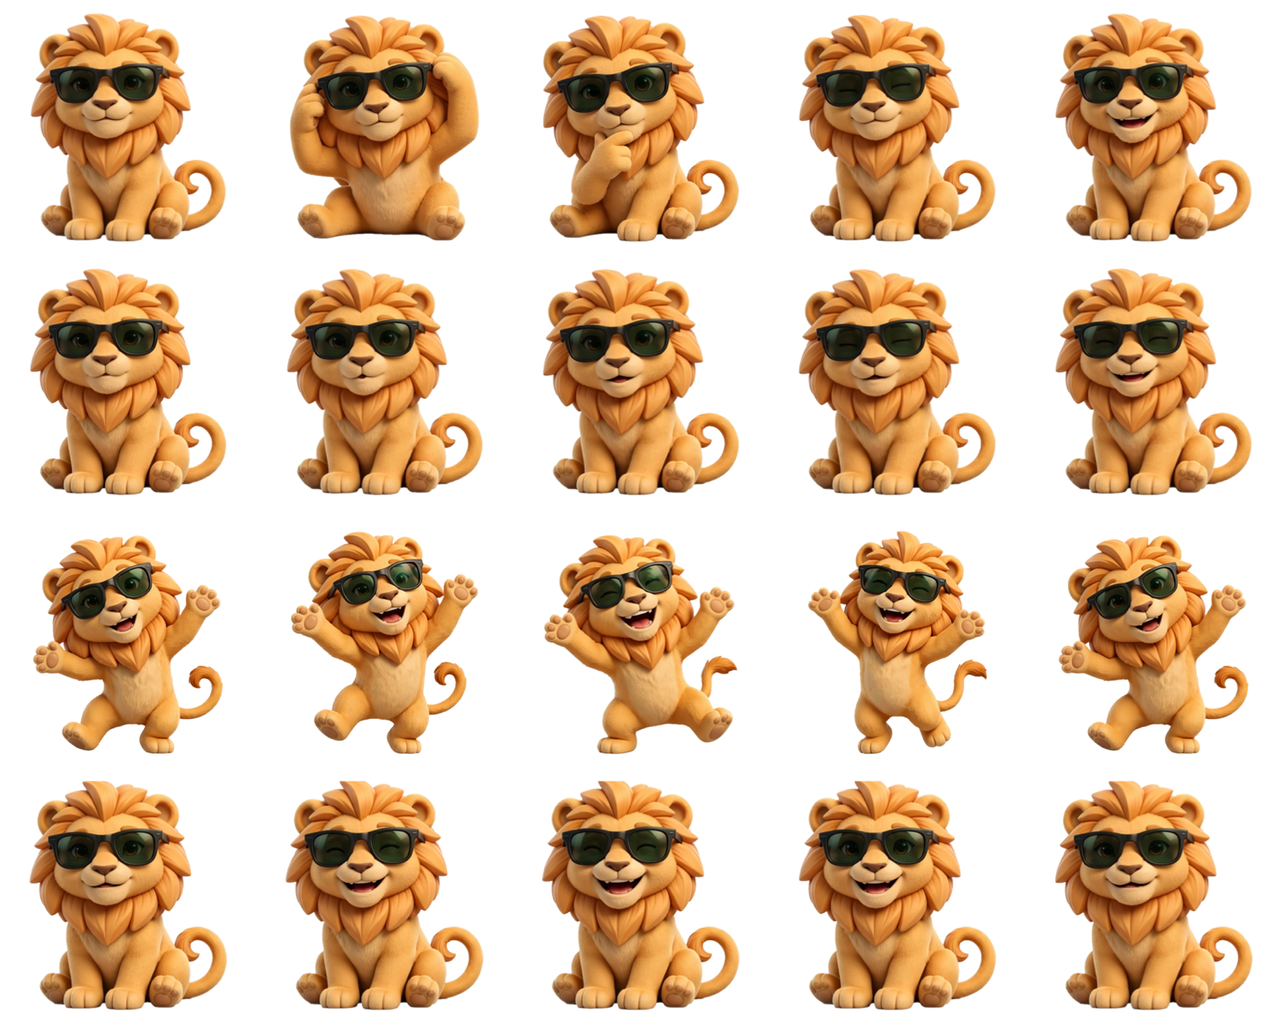
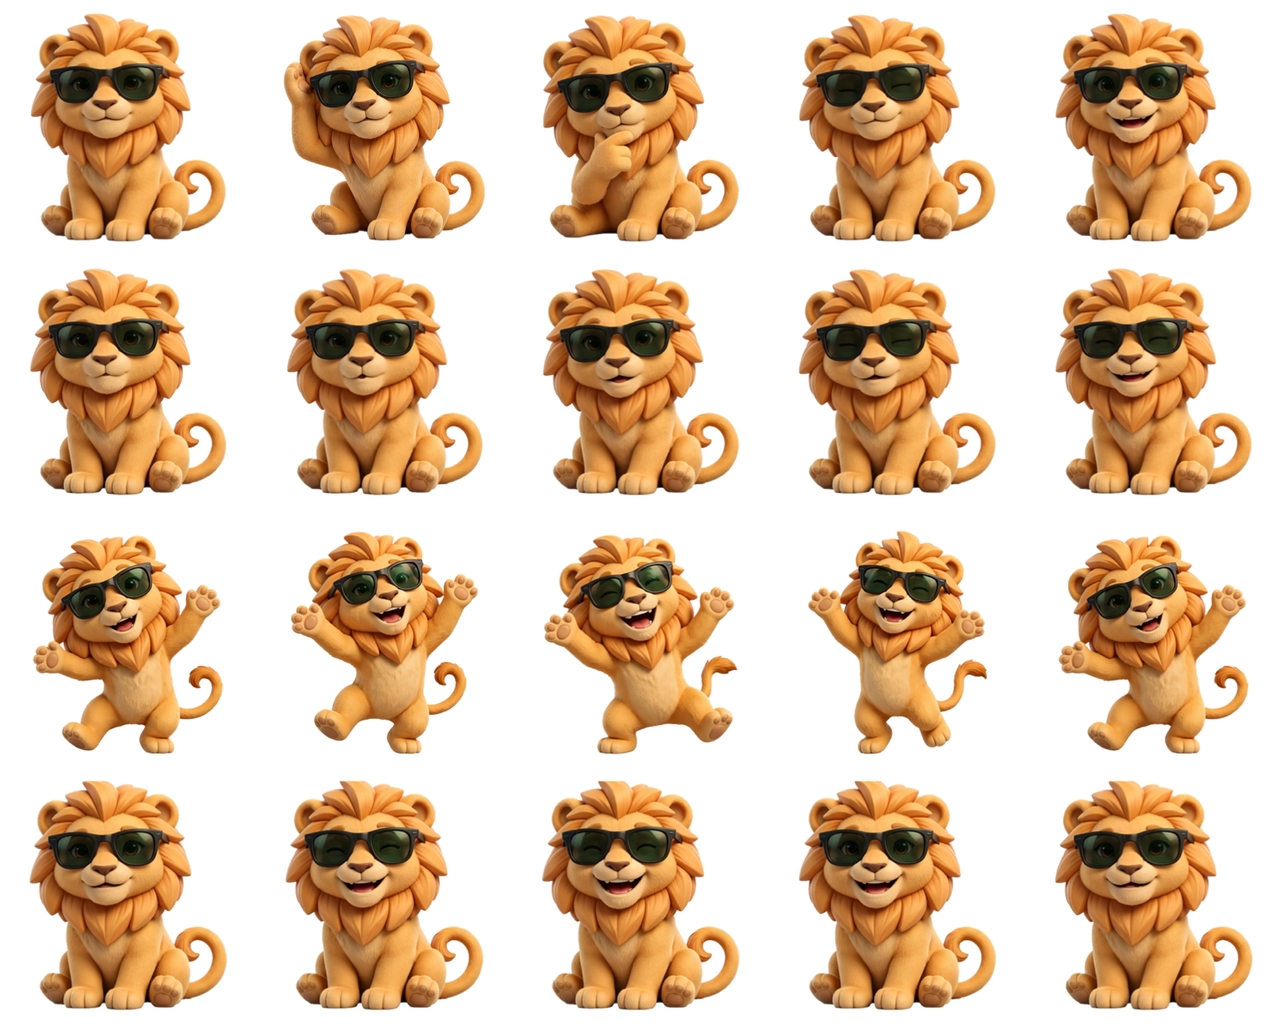
Keep companion colors and add renameable names with original descriptions

Changed region(s): [[0.2188, 0.0, 0.375, 0.25]]

diff --git a/App/iOS/PhoneViews.swift b/App/iOS/PhoneViews.swift
@@ -72,7 +72,7 @@ struct PhoneCompanion: View {
                     size: min(geometry.size.width * 0.7, geometry.size.height * 0.40),
                     celebrationID: model.state.undoReceiptID, animationLayout: model.characterManifest?.animationLayout,
                     reaction: model.state.reaction, reactionID: model.state.reactionID)
-                }.buttonStyle(.plain).disabled(!model.state.phase.isIdle || reduceMotion)
+                }.buttonStyle(CompanionArtworkButtonStyle()).disabled(!model.state.phase.isIdle || reduceMotion)
                     .accessibilityLabel("Make your companion dance")
                     .frame(maxWidth: .infinity)
                 Text(model.state.caption).font(.title3.weight(.semibold))
@@ -490,6 +490,7 @@ struct CharacterScreen: View {
     @State private var previewPhase: CompanionPhase = .ready
     @State private var previewReaction: CompanionReaction?
     @State private var previewReactionID: UUID?
+    @State private var inspectedCompanion: CompanionDetailSelection?
     var body: some View {
         NavigationStack {
             Form {
@@ -509,7 +510,7 @@ struct CharacterScreen: View {
                 }
                 Section {
                     LazyVGrid(columns: [GridItem(.flexible()), GridItem(.flexible())], spacing: 12) {
-                        companionChoice(id: nil, name: CharacterDefaults.name, image: nil)
+                        companionChoice(id: nil, name: model.defaultCompanionName, image: nil)
                         ForEach(model.characterGallery) { character in
                             companionChoice(id: character.id, name: character.manifest.name, image: character.image,
                                             animation: character.manifest.animationLayout)
@@ -519,7 +520,7 @@ struct CharacterScreen: View {
                         Text("Your saved gallery couldn’t be opened. Its files have been preserved.").font(.footnote).foregroundStyle(.secondary)
                     }
                 } header: { Text("Your companions") } footer: {
-                    Text("Ava and your three most recent creations stay on this iPhone. A new creation replaces the oldest saved custom companion. Tap a companion to use it on iPhone and Watch.")
+                    Text("The default companion and your three most recent creations stay on this iPhone. A new creation replaces the oldest saved custom companion. Tap one to select it, rename it or view its original description.")
                 }
                 Section {
                     TextField("Name", text: $model.characterDraftName).disabled(model.generating)
@@ -530,10 +531,11 @@ struct CharacterScreen: View {
                         .disabled(!model.canChangeCharacter || !model.state.hasModelKey || model.characterDraftDescription.trimmingCharacters(in: .whitespacesAndNewlines).isEmpty)
                     if !model.metaDataSharingAllowed { Text("Allow Meta data sharing in Settings before creating a companion.").font(.footnote).foregroundStyle(.secondary) }
                     if model.generating { HStack { ProgressView(); Text(model.generationStage).font(.subheadline) } }
-                } header: { Text("Create your own") } footer: { Text("Muse Image creates the artwork and expression poses. Avatodo prepares the animations locally and sends the same companion to your Watch. Creation uses two image requests with your Meta key; playback needs no further model requests.") }
+                } header: { Text("Create a new companion") } footer: { Text("These fields create a new companion. To rename an existing one, tap it above. Muse Image creates the artwork and expression poses. Avatodo prepares the animations locally and sends the same companion to your Watch. Creation uses two image requests with your Meta key; playback needs no further model requests.") }
             }.navigationTitle("Your companion").navigationBarTitleDisplayMode(.inline)
                 .toolbar { ToolbarItem(placement: .confirmationAction) { Button("Done") { dismiss() } } }
         }
+        .sheet(item: $inspectedCompanion) { CharacterDetails(model: model, selection: $0) }
         .task(id: previewingAnimations) {
             guard previewingAnimations else {
                 previewPhase = .ready; previewReaction = nil; previewReactionID = nil
@@ -562,7 +564,10 @@ struct CharacterScreen: View {
     }
     private func companionChoice(id: UUID?, name: String, image: Data?, animation: CharacterAnimationLayout? = nil) -> some View {
         let selected = model.state.characterID == id
-        return Button { model.selectCharacter(id) } label: {
+        return Button {
+            model.selectCharacter(id)
+            inspectedCompanion = CompanionDetailSelection(characterID: id, name: name.isEmpty ? CharacterDefaults.name : name)
+        } label: {
             VStack(spacing: 6) {
                 CompanionArtwork(data: image, phase: .ready, size: 74, animationLayout: animation, motionEnabled: false)
                 HStack(spacing: 4) {

diff --git a/App/Shared/CharacterLibrary.swift b/App/Shared/CharacterLibrary.swift
@@ -14,6 +14,7 @@ struct StoredCharacter: Identifiable {
 struct CharacterLibrarySnapshot {
     let characters: [StoredCharacter]
     let selectedID: UUID?
+    let defaultName: String
     var selected: StoredCharacter? { characters.first { $0.id == selectedID } }
 }
 
@@ -23,6 +24,7 @@ struct CharacterLibrary {
     private struct Index: Codable {
         var characters: [CharacterManifest]
         var selectedID: UUID?
+        var defaultName: String? = nil
     }
     let folder: URL
     private var indexURL: URL { folder.appendingPathComponent("library.json") }
@@ -40,7 +42,7 @@ struct CharacterLibrary {
         let previous = try readIndex()
         guard !previous.characters.contains(where: { $0.id == manifest.id }) else { throw CharacterLibraryFailure.invalidArtwork }
         let characters = [manifest] + previous.characters.filter { readImage($0) != nil }
-        let next = Index(characters: Array(characters.prefix(3)), selectedID: manifest.id)
+        let next = Index(characters: Array(characters.prefix(3)), selectedID: manifest.id, defaultName: previous.defaultName)
         try createFolder()
         try image.write(to: imageURL(manifest.id), options: .atomic)
         do { try writeIndex(next) }
@@ -78,12 +80,29 @@ struct CharacterLibrary {
         return snapshot(index)
     }
 
+    @discardableResult func rename(_ id: UUID?, name: String) throws -> CharacterLibrarySnapshot {
+        let name = name.trimmingCharacters(in: .whitespacesAndNewlines)
+        guard !name.isEmpty, name.count <= 40 else { throw CharacterLibraryFailure.invalidName }
+        var index = try readIndex()
+        if let id {
+            guard let position = index.characters.firstIndex(where: { $0.id == id }),
+                  readImage(index.characters[position]) != nil else { throw CharacterLibraryFailure.invalidArtwork }
+            // Names are editable. The generation description, artwork identity,
+            // creation date and gallery ordering are deliberately unchanged.
+            index.characters[position].name = name
+        } else { index.defaultName = name }
+        try writeIndex(index)
+        mirrorSelection(index)
+        return snapshot(index)
+    }
+
     private func readIndex() throws -> Index {
         guard FileManager.default.fileExists(atPath: indexURL.path) else { return try migrateLegacy() }
         let data = try Data(contentsOf: indexURL)
         guard data.count <= 64_000, let index = try? JSONDecoder().decode(Index.self, from: data),
               index.characters.count <= 3, Set(index.characters.map(\.id)).count == index.characters.count,
               index.characters.allSatisfy(metadataValid),
+              index.defaultName == nil || (index.defaultName!.count <= 40 && !index.defaultName!.trimmingCharacters(in: .whitespacesAndNewlines).isEmpty),
               index.selectedID == nil || index.characters.contains(where: { $0.id == index.selectedID }) else {
             throw CharacterLibraryFailure.unreadable
         }
@@ -93,7 +112,7 @@ struct CharacterLibrary {
     private func snapshot(_ index: Index) -> CharacterLibrarySnapshot {
         CharacterLibrarySnapshot(characters: index.characters.compactMap { manifest in
             readImage(manifest).map { StoredCharacter(manifest: manifest, image: $0) }
-        }, selectedID: index.selectedID)
+        }, selectedID: index.selectedID, defaultName: index.defaultName ?? CharacterDefaults.name)
     }
 
     private func metadataValid(_ manifest: CharacterManifest) -> Bool {
@@ -177,11 +196,12 @@ struct CharacterLibrary {
 }
 
 enum CharacterLibraryFailure: Error, LocalizedError {
-    case unreadable, invalidArtwork
+    case unreadable, invalidArtwork, invalidName
     var errorDescription: String? {
         switch self {
         case .unreadable: "Your companion gallery couldn’t be opened. The saved files have been preserved."
         case .invalidArtwork: "That saved companion couldn’t be opened. Your current companion hasn’t changed."
+        case .invalidName: "Choose a companion name from 1 to 40 characters."
         }
     }
 }

diff --git a/App/iOS/CharacterDetails.swift b/App/iOS/CharacterDetails.swift
@@ -1,0 +1,81 @@
+import SwiftUI
+
+struct CompanionDetailSelection: Identifiable {
+    let characterID: UUID?
+    let name: String
+    var id: String { characterID?.uuidString ?? "default" }
+}
+
+#Preview("Companion name and original description") {
+    CharacterDetails(model: PhoneModel(), selection: CompanionDetailSelection(characterID: nil, name: "Ava"))
+}
+
+struct CharacterDetails: View {
+    @Bindable var model: PhoneModel
+    let selection: CompanionDetailSelection
+    @Environment(\.dismiss) private var dismiss
+    @State private var name: String
+    @State private var errorMessage: String?
+
+    init(model: PhoneModel, selection: CompanionDetailSelection) {
+        self.model = model; self.selection = selection
+        _name = State(initialValue: selection.name)
+    }
+    private var character: StoredCharacter? {
+        model.characterGallery.first { $0.id == selection.characterID }
+    }
+    private var originalDescription: String? {
+        if selection.characterID == nil {
+            return Bundle.main.url(forResource: "DefaultCompanionDescription", withExtension: "txt")
+                .flatMap { try? String(contentsOf: $0, encoding: .utf8) }
+        }
+        return character?.manifest.description
+    }
+    private var validName: Bool {
+        let trimmed = name.trimmingCharacters(in: .whitespacesAndNewlines)
+        return !trimmed.isEmpty && trimmed.count <= 40
+    }
+    var body: some View {
+        NavigationStack {
+            Form {
+                Section {
+                    CompanionArtwork(data: character?.image, phase: .ready, size: 150,
+                        animationLayout: character?.manifest.animationLayout, motionEnabled: false)
+                        .frame(maxWidth: .infinity)
+                }
+                Section {
+                    TextField("Companion name", text: $name)
+                        .textInputAutocapitalization(.words).submitLabel(.done)
+                        .onSubmit { save() }
+                } header: { Text("Name") } footer: {
+                    Text("You can change the name without generating new artwork. Your companion will use this name when you talk.")
+                }
+                Section {
+                    if let description = originalDescription, !description.isEmpty {
+                        Text(description).textSelection(.enabled)
+                            .frame(maxWidth: .infinity, alignment: .leading)
+                    } else {
+                        Text("The original description wasn’t saved for this older companion.")
+                            .foregroundStyle(.secondary)
+                    }
+                } header: { Text("Original description") } footer: {
+                    Text("Original descriptions are kept with the artwork and stay unchanged when you rename your companion.")
+                }
+                if let errorMessage { Text(errorMessage).foregroundStyle(.red) }
+            }
+            .navigationTitle("Companion details").navigationBarTitleDisplayMode(.inline)
+            .toolbar {
+                ToolbarItem(placement: .cancellationAction) { Button("Cancel") { dismiss() } }
+                ToolbarItem(placement: .confirmationAction) {
+                    Button("Done") { save() }.disabled(!validName || !model.canChangeCharacter)
+                }
+            }
+        }
+    }
+    private func save() {
+        guard validName, model.canChangeCharacter else { return }
+        if name.trimmingCharacters(in: .whitespacesAndNewlines) == selection.name { dismiss(); return }
+        if model.renameCharacter(selection.characterID, name: name) { dismiss() }
+        else { errorMessage = model.alert ?? "The name couldn’t be saved. Please try again."; model.alert = nil }
+    }
+}

diff --git a/Tests/NativeRuntime/CharacterLibraryChecks.swift b/Tests/NativeRuntime/CharacterLibraryChecks.swift
@@ -38,6 +38,32 @@ import UniformTypeIdentifiers
         precondition(!FileManager.default.fileExists(atPath: root.appendingPathComponent(third.id.uuidString + ".png").path))
         print("PASS adding animation atomically replaces one gallery entry and preserves creation order")
 
+        let originalManifest = upgraded.selected!.manifest
+        let renamed = try library.rename(replacement.id, name: "  Nova  ")
+        let savedName = try CharacterLibrary(folder: root).load()
+        precondition(savedName.selected?.manifest.name == "Nova")
+        precondition(renamed.characters.map(\.id) == upgraded.characters.map(\.id))
+        precondition(savedName.selected?.image == image)
+        var expectedManifest = originalManifest; expectedManifest.name = "Nova"
+        precondition(savedName.selected?.manifest == expectedManifest)
+        let mirrored = try JSONDecoder().decode(CharacterManifest.self, from: Data(contentsOf: root.appendingPathComponent("current.json")))
+        precondition(mirrored == expectedManifest)
+        print("PASS rename survives reopening and preserves original prompt, artwork, creation date, selection and gallery order")
+
+        _ = try library.rename(nil, name: "Leo")
+        let defaultNamed = try library.select(nil)
+        precondition(defaultNamed.defaultName == "Leo" && defaultNamed.selectedID == nil)
+        _ = try library.add(image, manifest: manifest("Five"))
+        let afterAdding = try CharacterLibrary(folder: root).load()
+        precondition(afterAdding.defaultName == "Leo")
+        for invalid in ["  ", String(repeating: "a", count: 41)] {
+            do { _ = try library.rename(nil, name: invalid); preconditionFailure("Invalid name accepted") }
+            catch CharacterLibraryFailure.invalidName { }
+        }
+        let afterInvalid = try library.load()
+        precondition(afterInvalid.defaultName == "Leo")
+        print("PASS default companion renames survive selection and new creations; invalid names cannot change saved metadata")
+
         let corrupt = root.appendingPathComponent("library.json")
         try Data("broken".utf8).write(to: corrupt)
         do { _ = try library.add(image, manifest: manifest("Five")); preconditionFailure("Corrupt index overwritten") }
@@ -58,6 +84,9 @@ import UniformTypeIdentifiers
         precondition(migrated.selected?.manifest.name == "Nikola")
         precondition(migrated.selected?.manifest.description == nil)
         precondition(migrated.characters.first { $0.id == recoveredID }?.manifest.name == "Saved companion")
+        precondition(migrated.defaultName == CharacterDefaults.name)
+        let recoveredRenamed = try CharacterLibrary(folder: legacyRoot).rename(recoveredID, name: "Milo")
+        precondition(recoveredRenamed.characters.first { $0.id == recoveredID }?.manifest.description == nil)
         print("PASS legacy current character and cached artwork recovered without inventing missing descriptions")
     }
     static func png() throws -> Data {

diff --git a/App/iOS/PhoneModel.swift b/App/iOS/PhoneModel.swift
@@ -10,6 +10,7 @@ import AvatodoCore
     var characterData: Data?
     var characterManifest: CharacterManifest?
     var characterGallery: [StoredCharacter] = []
+    var defaultCompanionName = CharacterDefaults.name
     var characterGalleryAvailable = true
     var characterDraftName = CharacterDefaults.name {
         didSet {
@@ -661,12 +662,23 @@ import AvatodoCore
         }
         catch { alert = CharacterLibraryFailure.invalidArtwork.localizedDescription }
     }
+    @discardableResult func renameCharacter(_ id: UUID?, name: String) -> Bool {
+        guard canChangeCharacter else { return false }
+        do {
+            applyCharacterLibrary(try characterLibrary.rename(id, name: name))
+            restoreSelectedCharacterDraft()
+            link.cancelCharacterTransfers()
+            publish(); sendCharacter()
+            return true
+        } catch { alert = error.localizedDescription; return false }
+    }
     private func applyCharacterLibrary(_ snapshot: CharacterLibrarySnapshot) {
         characterGallery = snapshot.characters
+        defaultCompanionName = snapshot.defaultName
         characterData = snapshot.selected?.image; characterManifest = snapshot.selected?.manifest
         state.characterID = snapshot.selected?.id
         let selectedName = snapshot.selected?.manifest.name.trimmingCharacters(in: .whitespacesAndNewlines) ?? ""
-        state.characterName = selectedName.isEmpty ? CharacterDefaults.name : selectedName
+        state.characterName = selectedName.isEmpty ? snapshot.defaultName : selectedName
         prepareWatchPoster()
     }
     private func prepareWatchPoster() {
@@ -692,7 +704,7 @@ import AvatodoCore
         } catch { /* Never send an atlas to an older Watch that would display all nine poses. */ }
     }
     private func restoreSelectedCharacterDraft() {
-        characterDraftName = characterManifest?.name ?? CharacterDefaults.name
+        characterDraftName = characterManifest?.name ?? defaultCompanionName
         characterDraftDescription = characterManifest?.description ?? (characterManifest == nil ? CharacterDefaults.description : "")
     }
     private func sendCharacter(retryForeground: Bool = false) {

diff --git a/Sources/AvatodoCore/MetaClient.swift b/Sources/AvatodoCore/MetaClient.swift
@@ -118,8 +118,11 @@ public struct MetaClient: LanguageModel, Sendable {
         attentive head/body tilt. If it has no arms/legs, dancing is a clear whole-body wiggle;
         do not invent limbs. If it has no visible mouth, use subtle existing face/head expressions
         for speaking. Never add human anatomy, a mouth, ears or accessories absent in the reference.
-        Row 1 (FIVE cells): neutral seated friendly smile; attentive listening with one hand/paw
-        gently near the ear; thoughtful hand/paw at chin; neutral seated blink; relaxed happy smile.
+        Row 1 (FIVE cells): neutral seated friendly smile; attentive listening with a slight head
+        tilt and ONLY ONE hand/paw cupped beside its ear, the OTHER paw DOWN; thoughtful hand/paw
+        at chin; neutral seated blink; relaxed happy smile. In listening, do NOT touch, lift or adjust
+        glasses, hats or accessories. Keep paws away from glasses. If ears cannot be reached without
+        covering an accessory, use a gentle attentive head tilt with BOTH paws DOWN instead.
         Row 2 (FIVE cells): mouth-only speaking sequence. COPY the SAME neutral seated body,
         paws DOWN and head placement in ALL FIVE cells. Change ONLY mouth: closed, barely open,
         moderately open, barely open, closed smile. NO paw near chin, NO paw movement in this row.

diff --git a/App/Shared/CompanionSurface.swift b/App/Shared/CompanionSurface.swift
@@ -1,6 +1,20 @@
 import SwiftUI
 import ImageIO
 
+/// Dance becomes unavailable while talking, but the companion remains alive
+/// and at full color instead of inheriting the standard disabled-button fade.
+struct CompanionArtworkButtonStyle: ButtonStyle {
+    func makeBody(configuration: Configuration) -> some View { configuration.label }
+}
+
+#Preview("Artwork color while listening") {
+    VStack {
+        Button {} label: { CompanionArtwork(data: nil, phase: .ready, size: 150) }
+        Button {} label: { CompanionArtwork(data: nil, phase: .listening, size: 150) }
+            .disabled(true)
+    }.buttonStyle(CompanionArtworkButtonStyle())
+}
+
 struct CompanionArtwork: View {
     @Environment(\.accessibilityReduceMotion) private var reduceMotion
     @Environment(\.scenePhase) private var scenePhase

diff --git a/App/Watch/AvatodoWatchApp.swift b/App/Watch/AvatodoWatchApp.swift
@@ -18,7 +18,7 @@ struct WatchCompanion: View {
                         CompanionArtwork(data: model.characterData, phase: model.state.phase,
                             size: 90, celebrationID: model.state.undoReceiptID, animationLayout: model.characterManifest?.animationLayout,
                             reaction: model.state.reaction, reactionID: model.state.reactionID)
-                    }.buttonStyle(.plain).disabled(!model.state.phase.isIdle || reduceMotion)
+                    }.buttonStyle(CompanionArtworkButtonStyle()).disabled(!model.state.phase.isIdle || reduceMotion)
                         .accessibilityLabel("Make your companion dance")
                         .frame(maxWidth: .infinity)
                     Text(model.state.caption).font(.footnote).foregroundStyle(.secondary)

diff --git a/docs/release-evidence.md b/docs/release-evidence.md
@@ -1,5 +1,15 @@
 # Release evidence
 
+## Build 10 candidate, 5 November
+
+The companion's dance button previously used the standard plain style, which dimmed disabled artwork during listening/thinking/speaking. A shared artwork-only button style keeps full color while retaining the disabled action on phone and Watch. A native SwiftUI preview visibly verifies enabled-ready and disabled-listening artwork without fading.
+
+Muse Image generated a clearer default-lion listening gesture: one paw beside an ear, the other down, slight head tilt, glasses untouched. Local foreground preparation replaces only atlas cell 1; the other 19 cells are unchanged. Future animation requests explicitly avoid adjusting accessories. Existing custom packs are preserved and can be regenerated by the owner; pose quality is not guaranteed by structural validation.
+
+Tapping a saved gallery companion selects it and opens Companion details. Name is editable; Done saves it locally without regenerating artwork, changing IDs, creation date, gallery order or original description. The default lion can be renamed too. The selected name continues through the existing agent context and paired state. Original description is read-only, selectable text. Legacy artwork without saved provenance honestly shows it unavailable. The bundled lion includes its recorded original Muse prompt. The separate creation fields are labeled Create a new companion.
+
+Verification: 52 core tests; six native gallery groups including custom/default rename, reopening, immutable provenance and invalid-name rejection; existing atlas, motion and transfer checks pass. Both Simulator targets build. Native iPhone UI verified default/custom renames, relaunch persistence and read-only/missing original descriptions. The hardware microphone/Watch color acceptance and TestFlight 10 release are not yet claimed.
+
 ## Processed TestFlight checkpoint, 5 November, build 9
 
 Adds a Drive File format setting with Markdown (.md) as the initial choice and optional plain text (.txt) for mobile Drive compatibility. Format changes patch the existing file ID even when the note revision is unchanged, keeping one file per note. Plain text omits the human-unfriendly export envelope; IDs/revisions remain in app-owned Drive metadata. There is no Open-in-Avatodo reader or new Google permission.

diff --git a/docs/native-app.md b/docs/native-app.md
@@ -144,3 +144,10 @@ The primary control moves directly from Talk to Done during connection/microphon
 Settings → Google Drive → File format offers Markdown (.md) or Plain text (.txt). The initial choice is Markdown. Selecting another format updates existing copies in place, including their names and media types. The same note/file IDs remain; no second file or imported cloud edit is created. Plain text is the mobile Drive compatibility option and keeps ordinary text/checklist marks. The owner’s real Markdown upload and web preview are confirmed; mobile TXT preview and Muse access still require device/account acceptance.
 
 Preview iPhone voice sits immediately beneath Reply voice and above Watch reply voice. Choosing an installed Watch voice uses local synthesis, avoiding phone audio generation/transfer. The iPhone-voice option remains available; preferences are not migrated or overridden. Relative playback latency has not been measured on hardware.
+
+
+## Rename a companion and read its original description (build 10)
+
+Open Your companion, then tap a saved companion tile. This selects it and opens Companion details. Edit Name and tap Done; Cancel discards the name edit. The name is stored locally, retained after reopening and used in the companion's next agent turn. The default lion can also be renamed. Renaming needs no Meta request and leaves its artwork and original description unchanged.
+
+Original description is selectable read-only text. If an older saved image has no retained description, Avatodo says it was not saved. Create a new companion is a separate form and does not edit existing generation descriptions. The bundled default lion has a clearer listening pose in this version; existing custom poses are kept unless you choose Regenerate animations.
